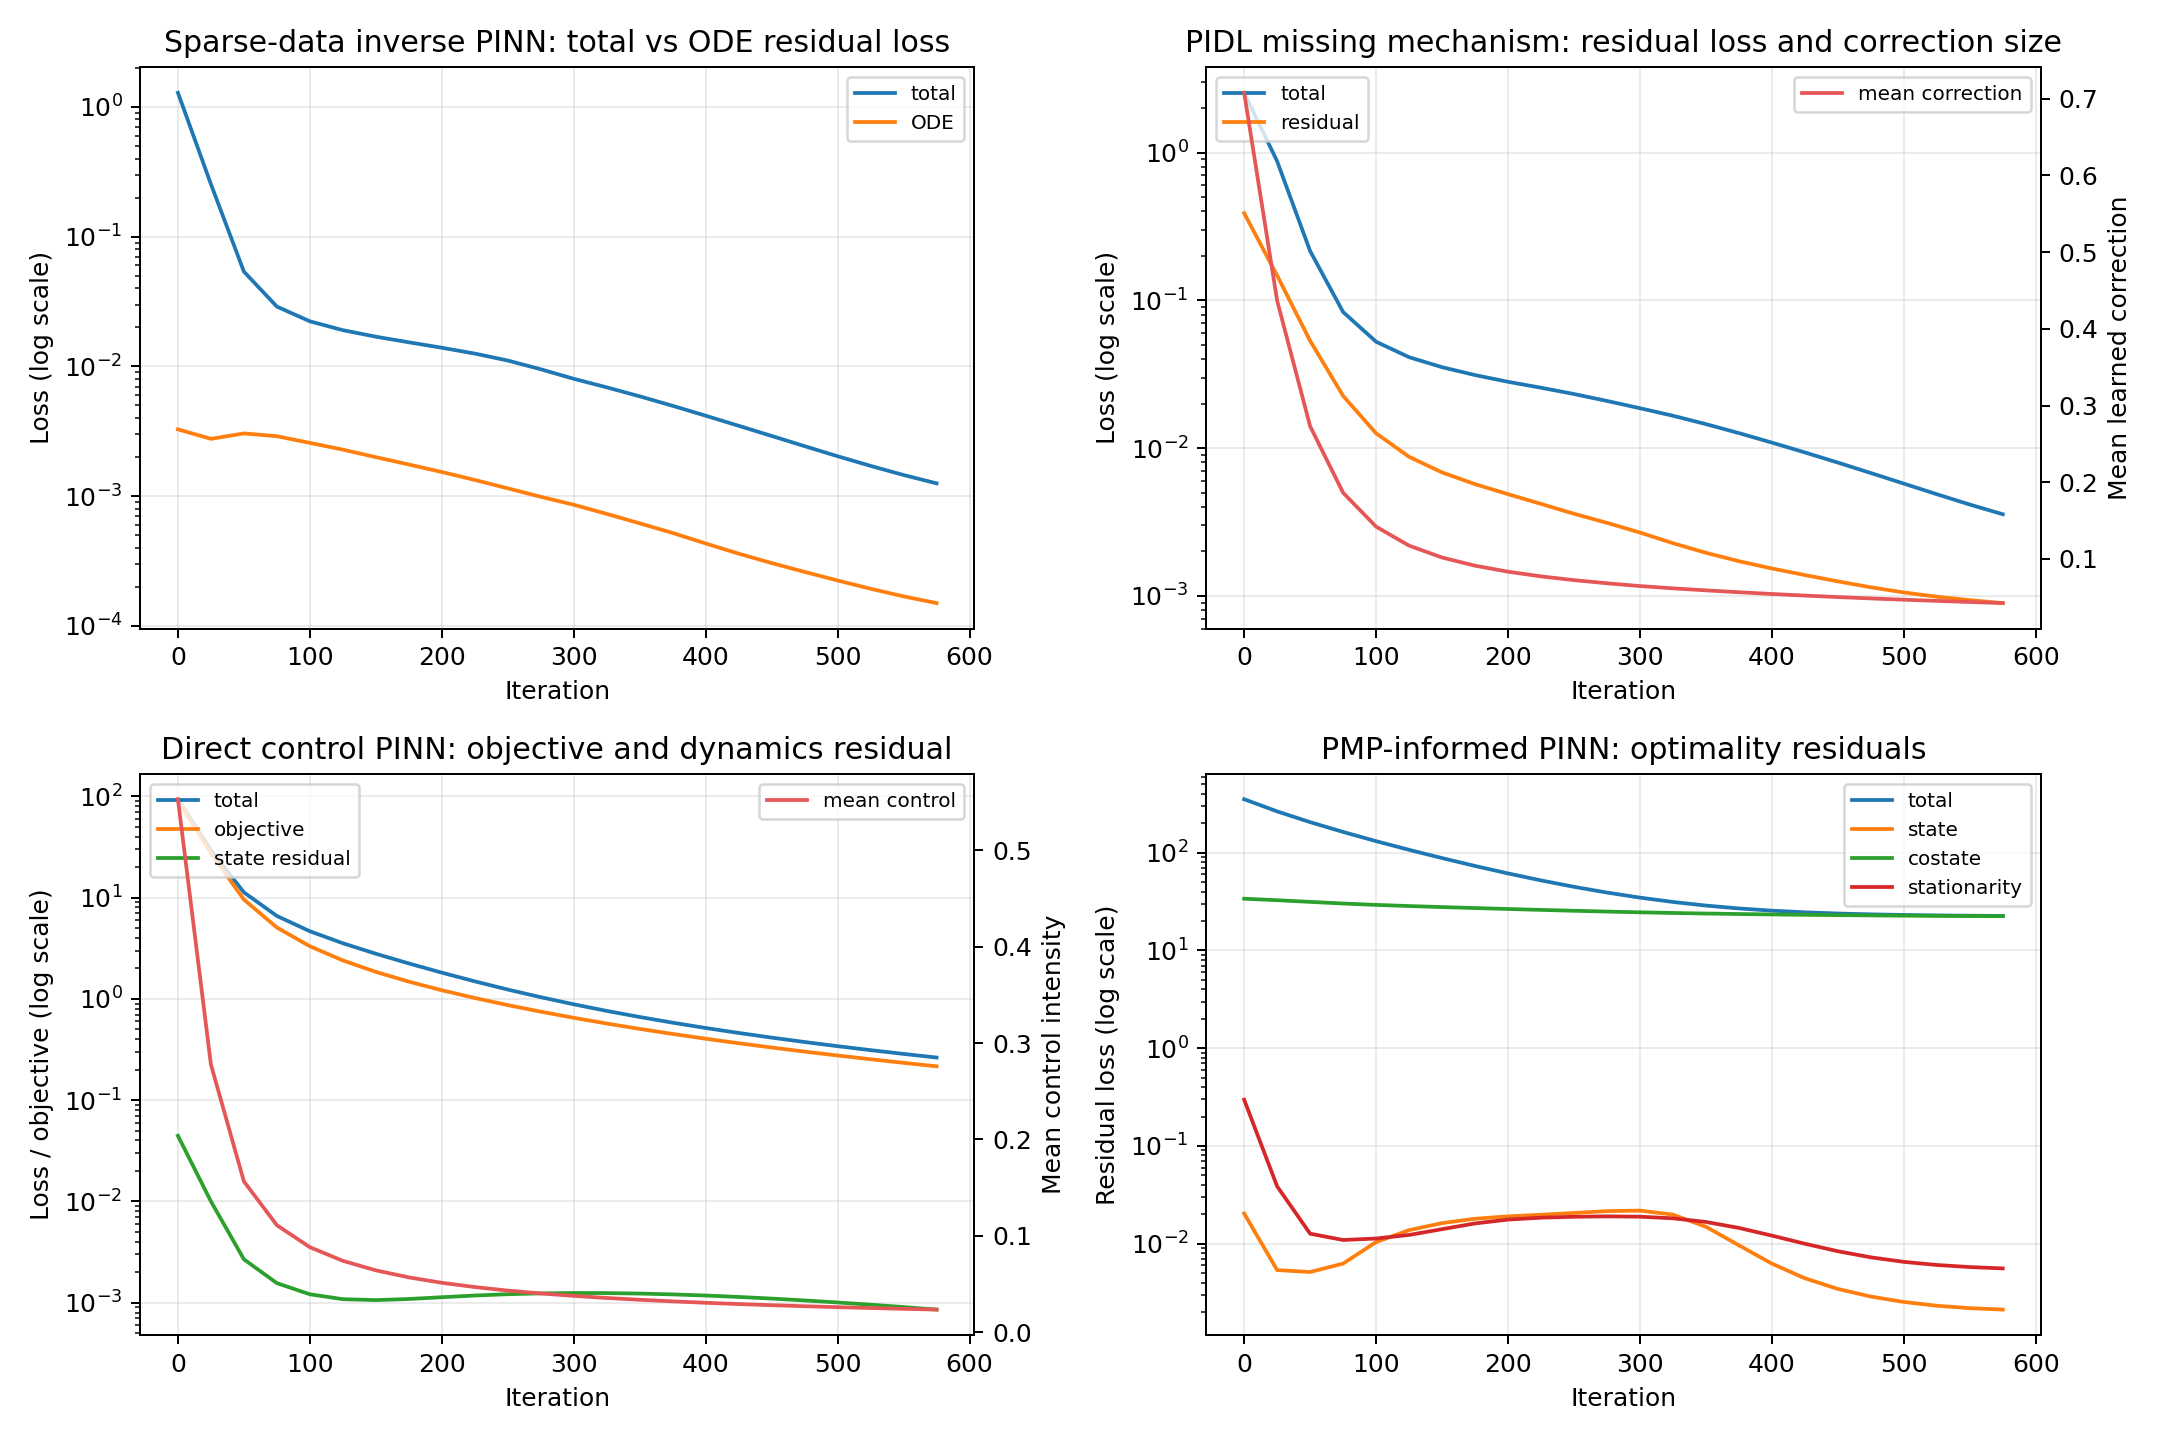
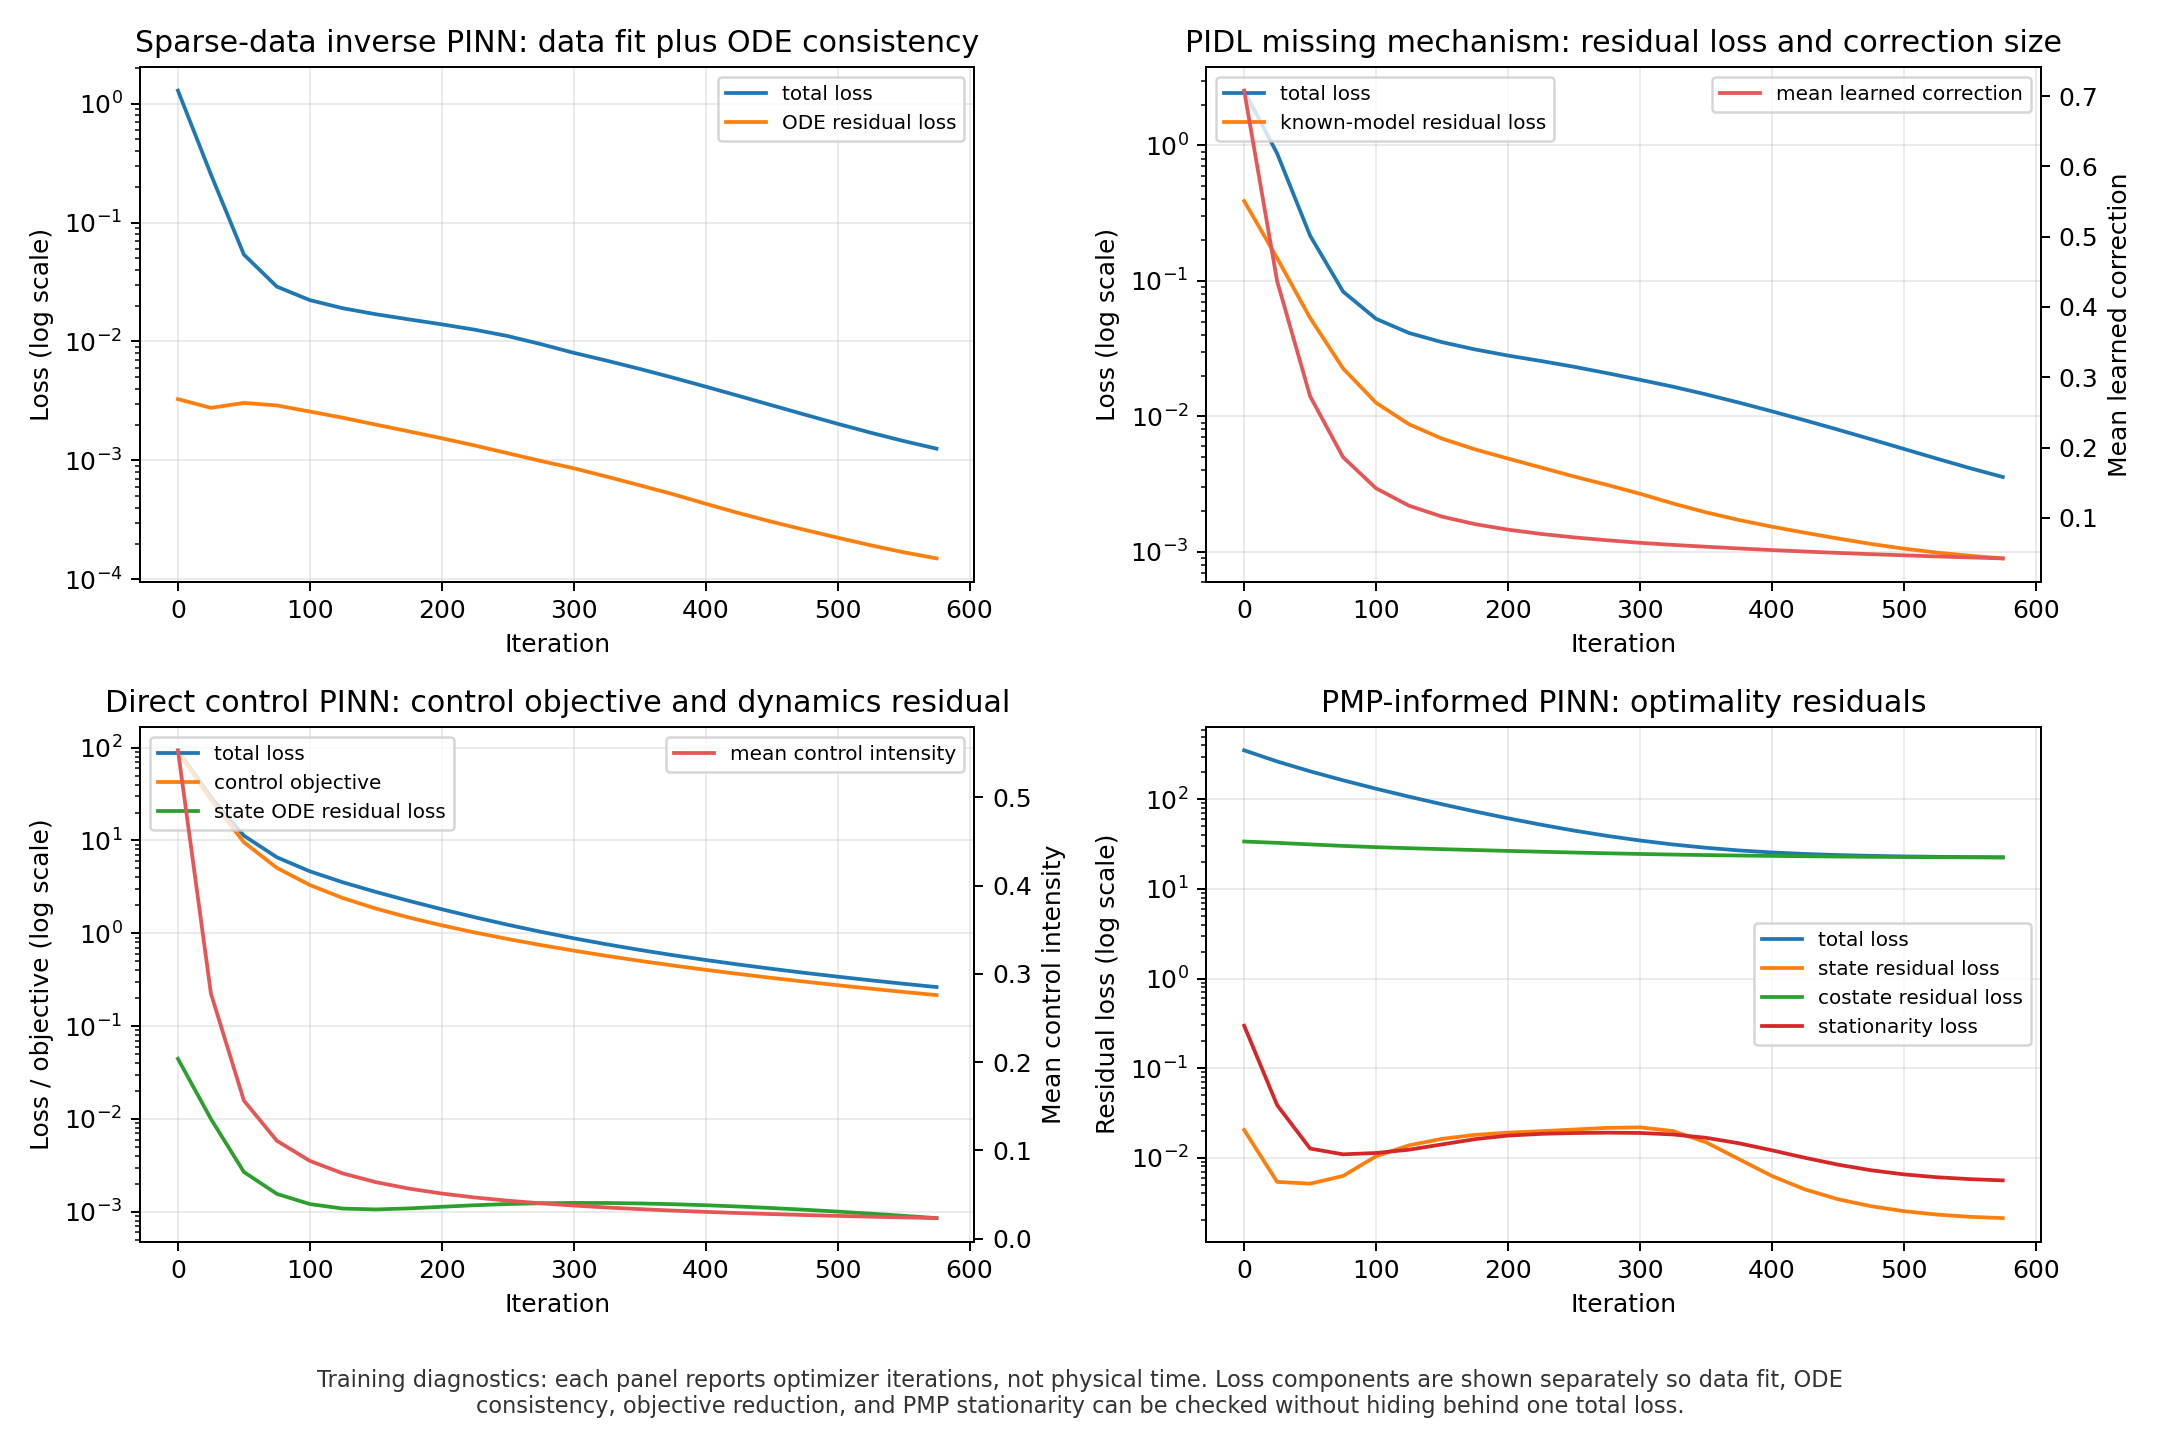
Clarify Note 2 training diagnostics

diff --git a/scripts/run_training_iterations.py b/scripts/run_training_iterations.py
@@ -28,6 +28,7 @@ sys.path.insert(0, str(ROOT / "src"))
 from shared_setup import ensure_foundation_package
 
 ensure_foundation_package()
+from cybercontrol.diagnostics import add_caption, diagnostic_terms_for, write_diagnostic_glossary
 from cybercontrol.io import write_csv
 from cybercontrol.torch_utils import rk4_step_torch
 from control_pinn_malware import ControlNet, rhs as control_rhs, train as train_control_pinn
@@ -56,6 +57,27 @@ BASELINE_FIELDS = [
     "mean_control",
     "notes",
 ]
+NOTE2_DIAGNOSTIC_TERMS = diagnostic_terms_for(
+    [
+        "iteration",
+        "rollout",
+        "loss",
+        "data loss",
+        "ODE residual loss",
+        "residual loss",
+        "initial-condition loss",
+        "boundary loss",
+        "costate loss",
+        "stationarity loss",
+        "objective",
+        "rollout objective",
+        "correction regularizer",
+        "mean control",
+        "collocation point",
+        "held-out metric",
+        "baseline comparison",
+    ]
+)
 
 TRAINING_PROFILES = {
     "teaching": {
@@ -206,34 +228,34 @@ def plot_training_diagnostics(output_path: Path, histories: dict[str, list[dict]
     fig, axes = plt.subplots(2, 2, figsize=(12, 8))
     axes = axes.ravel()
 
-    axes[0].semilogy([r["iteration"] for r in histories["inverse"]], [r["loss"] for r in histories["inverse"]], label="total")
-    axes[0].semilogy([r["iteration"] for r in histories["inverse"]], [r["ode_loss"] for r in histories["inverse"]], label="ODE")
-    axes[0].set_title("Sparse-data inverse PINN: total vs ODE residual loss")
+    axes[0].semilogy([r["iteration"] for r in histories["inverse"]], [r["loss"] for r in histories["inverse"]], label="total loss")
+    axes[0].semilogy([r["iteration"] for r in histories["inverse"]], [r["ode_loss"] for r in histories["inverse"]], label="ODE residual loss")
+    axes[0].set_title("Sparse-data inverse PINN: data fit plus ODE consistency")
     axes[0].set_ylabel("Loss (log scale)")
 
     pidl_it = [r["iteration"] for r in histories["pidl"]]
-    axes[1].semilogy(pidl_it, [r["loss"] for r in histories["pidl"]], label="total")
-    axes[1].semilogy(pidl_it, [r["residual_loss"] for r in histories["pidl"]], label="residual")
+    axes[1].semilogy(pidl_it, [r["loss"] for r in histories["pidl"]], label="total loss")
+    axes[1].semilogy(pidl_it, [r["residual_loss"] for r in histories["pidl"]], label="known-model residual loss")
     axes[1].set_title("PIDL missing mechanism: residual loss and correction size")
     axes[1].set_ylabel("Loss (log scale)")
     ax_pidl = axes[1].twinx()
-    ax_pidl.plot(pidl_it, [r["mean_correction"] for r in histories["pidl"]], color="#e45756", label="mean correction")
+    ax_pidl.plot(pidl_it, [r["mean_correction"] for r in histories["pidl"]], color="#e45756", label="mean learned correction")
     ax_pidl.set_ylabel("Mean learned correction")
 
     control_it = [r["iteration"] for r in histories["control"]]
-    axes[2].semilogy(control_it, [r["loss"] for r in histories["control"]], label="total")
-    axes[2].semilogy(control_it, [r["objective"] for r in histories["control"]], label="objective")
-    axes[2].semilogy(control_it, [r["residual_loss"] for r in histories["control"]], label="state residual")
-    axes[2].set_title("Direct control PINN: objective and dynamics residual")
+    axes[2].semilogy(control_it, [r["loss"] for r in histories["control"]], label="total loss")
+    axes[2].semilogy(control_it, [r["objective"] for r in histories["control"]], label="control objective")
+    axes[2].semilogy(control_it, [r["residual_loss"] for r in histories["control"]], label="state ODE residual loss")
+    axes[2].set_title("Direct control PINN: control objective and dynamics residual")
     axes[2].set_ylabel("Loss / objective (log scale)")
     ax_control = axes[2].twinx()
-    ax_control.plot(control_it, [r["mean_control"] for r in histories["control"]], color="#e45756", label="mean control")
+    ax_control.plot(control_it, [r["mean_control"] for r in histories["control"]], color="#e45756", label="mean control intensity")
     ax_control.set_ylabel("Mean control intensity")
 
-    axes[3].semilogy([r["iteration"] for r in histories["pmp"]], [r["loss"] for r in histories["pmp"]], label="total")
-    axes[3].semilogy([r["iteration"] for r in histories["pmp"]], [r["state_loss"] for r in histories["pmp"]], label="state")
-    axes[3].semilogy([r["iteration"] for r in histories["pmp"]], [r["costate_loss"] for r in histories["pmp"]], label="costate")
-    axes[3].semilogy([r["iteration"] for r in histories["pmp"]], [r["stationarity_loss"] for r in histories["pmp"]], label="stationarity")
+    axes[3].semilogy([r["iteration"] for r in histories["pmp"]], [r["loss"] for r in histories["pmp"]], label="total loss")
+    axes[3].semilogy([r["iteration"] for r in histories["pmp"]], [r["state_loss"] for r in histories["pmp"]], label="state residual loss")
+    axes[3].semilogy([r["iteration"] for r in histories["pmp"]], [r["costate_loss"] for r in histories["pmp"]], label="costate residual loss")
+    axes[3].semilogy([r["iteration"] for r in histories["pmp"]], [r["stationarity_loss"] for r in histories["pmp"]], label="stationarity loss")
     axes[3].set_title("PMP-informed PINN: optimality residuals")
     axes[3].set_ylabel("Residual loss (log scale)")
 
@@ -246,7 +268,11 @@ def plot_training_diagnostics(output_path: Path, histories: dict[str, list[dict]
     ax_pidl.legend(loc="upper right", fontsize=8)
     ax_control.legend(loc="upper right", fontsize=8)
 
-    fig.tight_layout()
+    add_caption(
+        fig,
+        "Training diagnostics: each panel reports optimizer iterations, not physical time. Loss components are shown separately so data fit, ODE consistency, objective reduction, and PMP stationarity can be checked without hiding behind one total loss.",
+    )
+    fig.tight_layout(rect=(0, 0.065, 1, 1))
     output_path.parent.mkdir(exist_ok=True)
     fig.savefig(output_path, dpi=180)
     plt.close(fig)
@@ -607,7 +633,7 @@ def plot_baseline_comparison(output_path: Path, rows: list[dict]) -> None:
         "PIDL is compared with the known SIR model without the missing term; control methods are evaluated "
         "by rolling the original controlled malware model forward under each policy. Lower bars are better."
     )
-    fig.text(0.5, 0.01, textwrap.fill(caption, 150), ha="center", va="bottom", fontsize=9)
+    add_caption(fig, caption, width=150, y=0.01)
     fig.tight_layout(rect=(0, 0.06, 1, 0.95))
     output_path.parent.mkdir(exist_ok=True)
     fig.savefig(output_path, dpi=190)
@@ -633,6 +659,10 @@ def write_summary(path: Path, histories: dict[str, list[dict]], baseline_rows: l
     text = f"""# Training Summary
 
 These diagnostics use the `{profile["name"]}` profile with `{profile["iters"]}` optimizer iterations per method. The default profile stays laptop-friendly; the GPU profile increases width/depth and collocation points for a more demanding local run.
+
+## Training Diagnostic Terms
+
+Open `experiments/training_diagnostic_glossary.md` before reading the training plots.  In this repo, **iteration** means an optimizer step, **collocation point** means a residual-evaluation point, **residual loss** checks equation consistency, and **rollout objective** means the original ODE is simulated forward for validation.
 
 ## Profile Parameters
 
@@ -734,6 +764,7 @@ The direct-control and PMP-informed PINN panels above are training diagnostics. 
 | Category | File |
 |---|---|
 | Summary | `experiments/training_summary.md` |
+| Diagnostic glossary | `experiments/training_diagnostic_glossary.md` |
 | Learning curves | `figures/training_iteration_diagnostics.png` |
 | Baseline comparison | `figures/baseline_comparison.png` |
 | Baseline metrics | `experiments/baseline_comparison_metrics.csv` |
@@ -782,6 +813,11 @@ def main() -> None:
     write_csv(exp_dir / "control_pinn_training_history.csv", control_history)
     write_csv(exp_dir / "pmp_informed_pinn_training_history.csv", pmp_history)
     write_csv(exp_dir / "baseline_comparison_metrics.csv", baseline_rows)
+    write_diagnostic_glossary(
+        exp_dir / "training_diagnostic_glossary.md",
+        NOTE2_DIAGNOSTIC_TERMS,
+        title="Note 2 Training Diagnostic Glossary",
+    )
     write_output_preview(exp_dir / "OUTPUT_PREVIEW.md", histories, baseline_rows, profile)
     write_summary(exp_dir / "training_summary.md", histories, baseline_rows, profile)
     plot_training_diagnostics(fig_dir / "training_iteration_diagnostics.png", histories)

diff --git a/experiments/training_diagnostic_glossary.md b/experiments/training_diagnostic_glossary.md
@@ -1,0 +1,23 @@
+# Note 2 Training Diagnostic Glossary
+
+Use this page while reading the training-diagnostic figures and CSV histories.
+
+| Term | Meaning | How to read it |
+|---|---|---|
+| `iteration` | One optimizer, FBSM, or residual-update step. | Use for solver or neural-training progress on the x-axis. |
+| `rollout` | A forward simulation under a fixed policy, control, or parameter set. | Use for validation outside the training loss. |
+| `loss` | The scalar objective minimized by an optimizer. | Must be read with its component losses. |
+| `data loss` | Mismatch between the neural prediction and observed data. | Shows data fit; it can improve while dynamics get worse if residual terms are weak. |
+| `ODE residual loss` | Mismatch between the neural time derivative and the ODE right-hand side. | A PINN/PIDL equation-consistency check at collocation points. |
+| `residual loss` | Mismatch between a neural derivative and the model right-hand side. | Small values indicate equation consistency, not necessarily optimality. |
+| `initial-condition loss` | Mismatch between the neural state and the known initial state. | Anchors the trajectory at t=0. |
+| `boundary loss` | Mismatch at required initial or terminal boundary conditions. | Important for PMP-informed models with terminal costate conditions. |
+| `costate loss` | Mismatch in the PMP costate differential equation. | Read with state and stationarity losses; one low residual alone is not enough. |
+| `stationarity loss` | Hamiltonian first-order condition residual, such as H_u. | Evidence for PMP consistency in interior-control regions. |
+| `objective` | The control or learning target being minimized, such as infected burden plus control cost. | Lower is better only within the same model and metric. |
+| `rollout objective` | Objective recomputed after simulating the original dynamics under a learned or fixed control. | Validation outside the training residual. |
+| `correction regularizer` | Penalty that keeps a learned PIDL correction term small or smooth. | Prevents the correction network from replacing the known mechanism. |
+| `mean control` | Average control intensity over the training or validation time grid. | Useful for checking whether an objective is won by excessive intervention. |
+| `collocation point` | A time or state-time point where a residual is enforced without requiring observed data. | Controls where PINN/PIDL physics is checked. |
+| `held-out metric` | Error on data, times, trajectories, or graph seeds not used in fitting. | A generalization check rather than a training loss. |
+| `baseline comparison` | Same-model comparison with no-control, fixed, random, or simple learned policies. | Use before making a stronger method claim. |

diff --git a/docs/PARAMETERS.md b/docs/PARAMETERS.md
@@ -29,6 +29,11 @@ Use this page before changing losses, networks, collocation points, or the cyber
 | `residual` | The mismatch between the neural derivative and the model right-hand side; small residual means the learned trajectory approximately obeys the assumed dynamics. |
 | `PMP-informed` | A PINN/PIDL variant that includes Hamiltonian, costate, and stationarity residuals from Pontryagin's maximum principle. |
 | `held-out` | Data, time points, graph seeds, or trajectories not used in fitting; used to check whether the learned model generalizes beyond training observations. |
+| `training diagnostic` | A plotted/logged check of training behavior, such as data loss, ODE residual loss, objective, stationarity loss, or a rollout baseline metric. |
+| `data loss` | Error against observed samples. It checks fit to data but not whether the learned path obeys the model. |
+| `ODE residual loss` | Error between the neural derivative and the ODE right-hand side at collocation points. |
+| `stationarity loss` | Hamiltonian first-order residual used in the PMP-informed example. It supports PMP consistency but does not by itself prove global optimality. |
+| `correction regularizer` | PIDL penalty that keeps the learned missing-mechanism term controlled instead of letting it replace the known dynamics. |
 
 ## Shared Model Parameters
 

diff --git a/experiments/training_summary.md b/experiments/training_summary.md
@@ -2,6 +2,10 @@
 
 These diagnostics use the `teaching` profile with `600` optimizer iterations per method. The default profile stays laptop-friendly; the GPU profile increases width/depth and collocation points for a more demanding local run.
 
+## Training Diagnostic Terms
+
+Open `experiments/training_diagnostic_glossary.md` before reading the training plots.  In this repo, **iteration** means an optimizer step, **collocation point** means a residual-evaluation point, **residual loss** checks equation consistency, and **rollout objective** means the original ODE is simulated forward for validation.
+
 ## Profile Parameters
 
 | Method | Width/depth | Data points | Collocation points |

diff --git a/scripts/README.md b/scripts/README.md
@@ -6,7 +6,7 @@ Scripts are grouped by purpose: quick validation, figure generation, and longer 
 |---|---|---|---|
 | `run_smoke_tests.sh` | Fast confidence check for every executable component. | `bash scripts/run_smoke_tests.sh` | Console output only |
 | `generate_figures.py` | Rebuild static explanatory figures used by the README. | `python scripts/generate_figures.py` | `figures/*.png` |
-| `run_training_iterations.py` | Run longer inverse PINN, PIDL, direct-control, PMP-informed, and baseline-comparison diagnostics. | `python scripts/run_training_iterations.py` | `experiments/*.csv`, `experiments/OUTPUT_PREVIEW.md`, `experiments/training_summary.md`, `figures/training_iteration_diagnostics.png`, `figures/baseline_comparison.png` |
+| `run_training_iterations.py` | Run longer inverse PINN, PIDL, direct-control, PMP-informed, and baseline-comparison diagnostics. | `python scripts/run_training_iterations.py` | `experiments/*.csv`, `experiments/OUTPUT_PREVIEW.md`, `experiments/training_diagnostic_glossary.md`, `experiments/training_summary.md`, `figures/training_iteration_diagnostics.png`, `figures/baseline_comparison.png` |
 
 ## Runtime Notes
 
@@ -40,6 +40,8 @@ The checked-in CSV files and figures are examples from one deterministic tutoria
 |---|---|
 | Training histories and `figures/training_iteration_diagnostics.png` | checking whether losses and residuals move toward a stable low-error regime |
 | `baseline_comparison_metrics.csv` and `figures/baseline_comparison.png` | checking whether the trained method beats a simple, topic-specific baseline |
+
+`experiments/training_diagnostic_glossary.md` defines the plotted terms. Use it when comparing total loss, data loss, ODE residual loss, stationarity loss, mean control, and rollout objective; these are related but not interchangeable.
 
 ## What Each Script Needs
 

diff --git a/README.md b/README.md
@@ -88,7 +88,7 @@ The PIDL example keeps the known SIR mechanism in the model and asks a correctio
 
 ![PIDL missing nonlinear mechanism](figures/pidl_missing_mechanism.png)
 
-The training diagnostics plot compares the longer tutorial runs for inverse PINN, PIDL, direct-control PINN, and PMP-informed PINN.  The separate loss curves make it easier to see whether the model is fitting data, respecting dynamics, and reducing the intended objective.
+The training diagnostics plot compares the longer tutorial runs for inverse PINN, PIDL, direct-control PINN, and PMP-informed PINN.  The separate loss curves make it easier to see whether the model is fitting data, respecting dynamics, reducing the intended objective, and satisfying PMP-style stationarity.  The generated `experiments/training_diagnostic_glossary.md` defines the plotted terms such as data loss, ODE residual loss, stationarity loss, collocation point, and rollout objective.
 
 ![Training iteration diagnostics](figures/training_iteration_diagnostics.png)
 
@@ -106,6 +106,7 @@ The baseline comparison plot asks a second question: after training, how do the 
 | `figures/baseline_comparison.png` | learned methods compared with method-specific baselines |
 | `experiments/node_siprs_inverse_pinn_smoke.csv` | small node-SIPRS inverse PINN smoke metrics with held-out state error |
 | `experiments/OUTPUT_PREVIEW.md` | categorized first-stop summary after longer experiment runs |
+| `experiments/training_diagnostic_glossary.md` | short definitions for loss, residual, rollout, and validation terms |
 | `experiments/baseline_comparison_metrics.csv` | exact metric values behind the baseline comparison plot |
 | `experiments/*.csv` | logged histories behind the training plot |
 

diff --git a/experiments/OUTPUT_PREVIEW.md b/experiments/OUTPUT_PREVIEW.md
@@ -53,6 +53,7 @@ The direct-control and PMP-informed PINN panels above are training diagnostics. 
 | Category | File |
 |---|---|
 | Summary | `experiments/training_summary.md` |
+| Diagnostic glossary | `experiments/training_diagnostic_glossary.md` |
 | Learning curves | `figures/training_iteration_diagnostics.png` |
 | Baseline comparison | `figures/baseline_comparison.png` |
 | Baseline metrics | `experiments/baseline_comparison_metrics.csv` |

diff --git a/src/README.md b/src/README.md
@@ -38,6 +38,7 @@ State networks use `softmax` so `S + I + R = 1` by construction.  Control networ
 | Direct control PINN | dynamics, cost weights, initial condition, collocation points | state/control networks and objective/residual history |
 | PMP-informed PINN | Hamiltonian terms, boundary conditions, collocation points | state/costate/control networks and PMP residual history |
 | Node-SIPRS inverse PINN | sparse infected observations on selected nodes/times, held-out times, canonical graph ODE | hidden node states, beta/gamma estimates, residual and held-out state metrics |
+| Training diagnostics | histories from inverse PINN, PIDL, direct control, PMP-informed PINN, and rollout baselines | standardized glossary, readable captions, and same-topic comparison figures |
 
 ## How The Pieces Fit
 